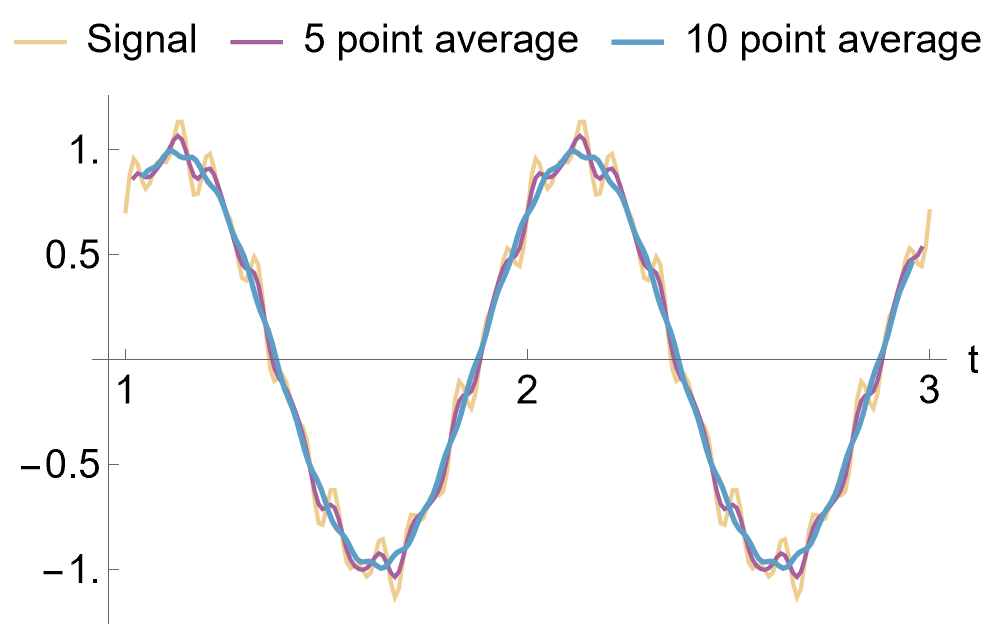
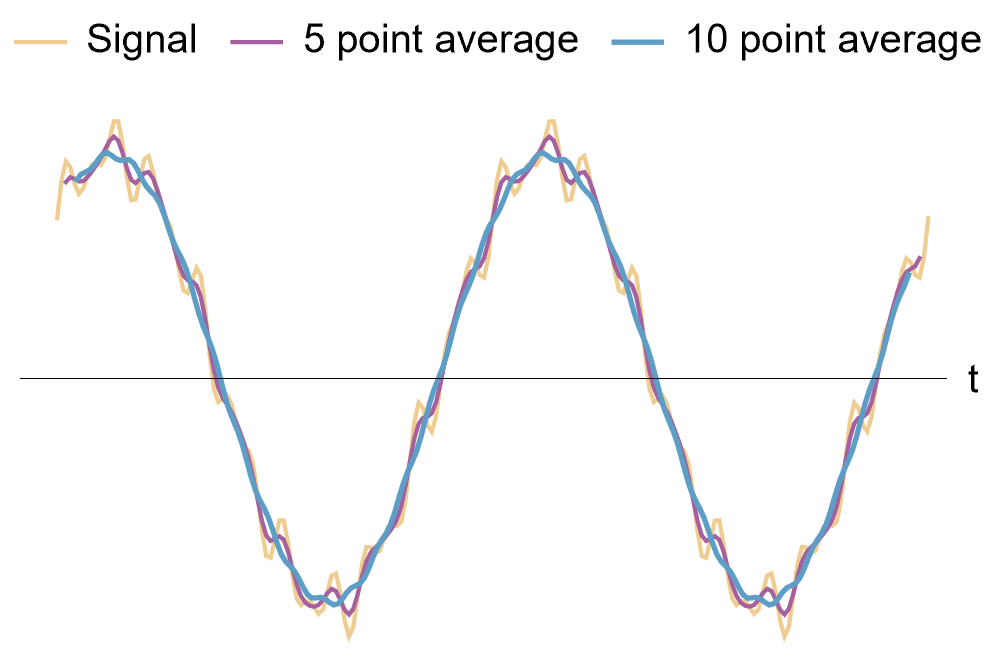
Removed axes from images

diff --git a/Tutorials/FILTER_SimpleFIR/README.md b/Tutorials/FILTER_SimpleFIR/README.md
@@ -47,7 +47,7 @@ $$y_j=\sum_{k=0}^{\infty}h_kx_{j-k}.$$
 This is the general formula for any Finite Impulse Response filter. Let's digest it a bit:
 
 * The function $h_k$ is called the *kernel* of the filter, and expresses how the filtered output at a time $j$ depends on the value of the signal at time $j-k$. 
-* For $k$ larger than some cutoff ($n$ in the case of the moving average) all $h_k$ should be zero. The FPGA can only hold a finite number of samples in memory.
+* For $k$ larger than some cut-off ($n$ in the case of the moving average) all $h_k$ should be zero. The FPGA can only hold a finite number of samples in memory.
 * $h_k$ is also the *impulse response* of the filter. If $x_0=1$ and all other $x_{j>0}$ are zero, then the filter output will be $y_k=h_k$. Since $h_{k}=0$ when $k>n$, the impulse response will always end after finite time - the filter has Finite Impulse Response.
 * The values of $h_k$ are also called the *coefficients* of the FIR filter.
 
